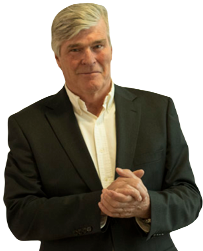
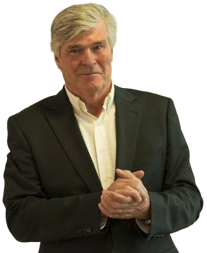
Use webp images and update information on profile card

diff --git a/src/components/ProfileCard/ProfileCard.tsx b/src/components/ProfileCard/ProfileCard.tsx
@@ -8,7 +8,7 @@ export default function ProfileCard() {
         <div className={styles.box}></div>
         <Image
           className={styles.image}
-          src={"/images/profile-3.png"}
+          src={"/images/profile.webp"}
           alt={"Profilbilde av Advokat Kristian Hersløv"}
           width={0}
           height={0}
@@ -32,6 +32,11 @@ export default function ProfileCard() {
             </li>
             <li className={styles.contact_list_item}>
               <p className={styles.contact_list_item_tag}>0191 Oslo</p>
+            </li>
+            <li className={styles.contact_list_item}>
+              <p className={styles.contact_list_item_tag}>
+                Postadresse: Postboks 1772 Vika, 0122 Oslo.
+              </p>
             </li>
             <li className={styles.contact_list_item}>
               <p className={styles.contact_list_item_tag}>Org nr 933 215 180</p>

diff --git a/src/components/AboutSection/AboutSection.tsx b/src/components/AboutSection/AboutSection.tsx
@@ -23,7 +23,7 @@ export default function AboutSection() {
           <p className={styles.image_watermark}>Foto: Braathen Eiendom AS</p>
           <Image
             className={styles.image}
-            src={"/images/frontdoor.png"}
+            src={"/images/frontdoor.webp"}
             alt={"Stevn logo"}
             width={0}
             height={0}

diff --git a/src/components/Header/Header.module.css b/src/components/Header/Header.module.css
@@ -8,7 +8,7 @@
 .image_image_container{
   width: 75%;
   height: 20rem;
-  background-image: url('/images/barcode.png');
+  background-image: url('/images/barcode.webp');
   background-repeat: no-repeat;
   background-position: 50% 20%;
   background-size: cover;

diff --git a/src/components/ContactSection/ContactSection.module.css b/src/components/ContactSection/ContactSection.module.css
@@ -1,5 +1,5 @@
 .backdrop {
-  background-image: url("/images/barcode.png");
+  background-image: url("/images/barcode.webp");
   background-position: 50% 60%;
   background-repeat: no-repeat;
   background-size: cover;
